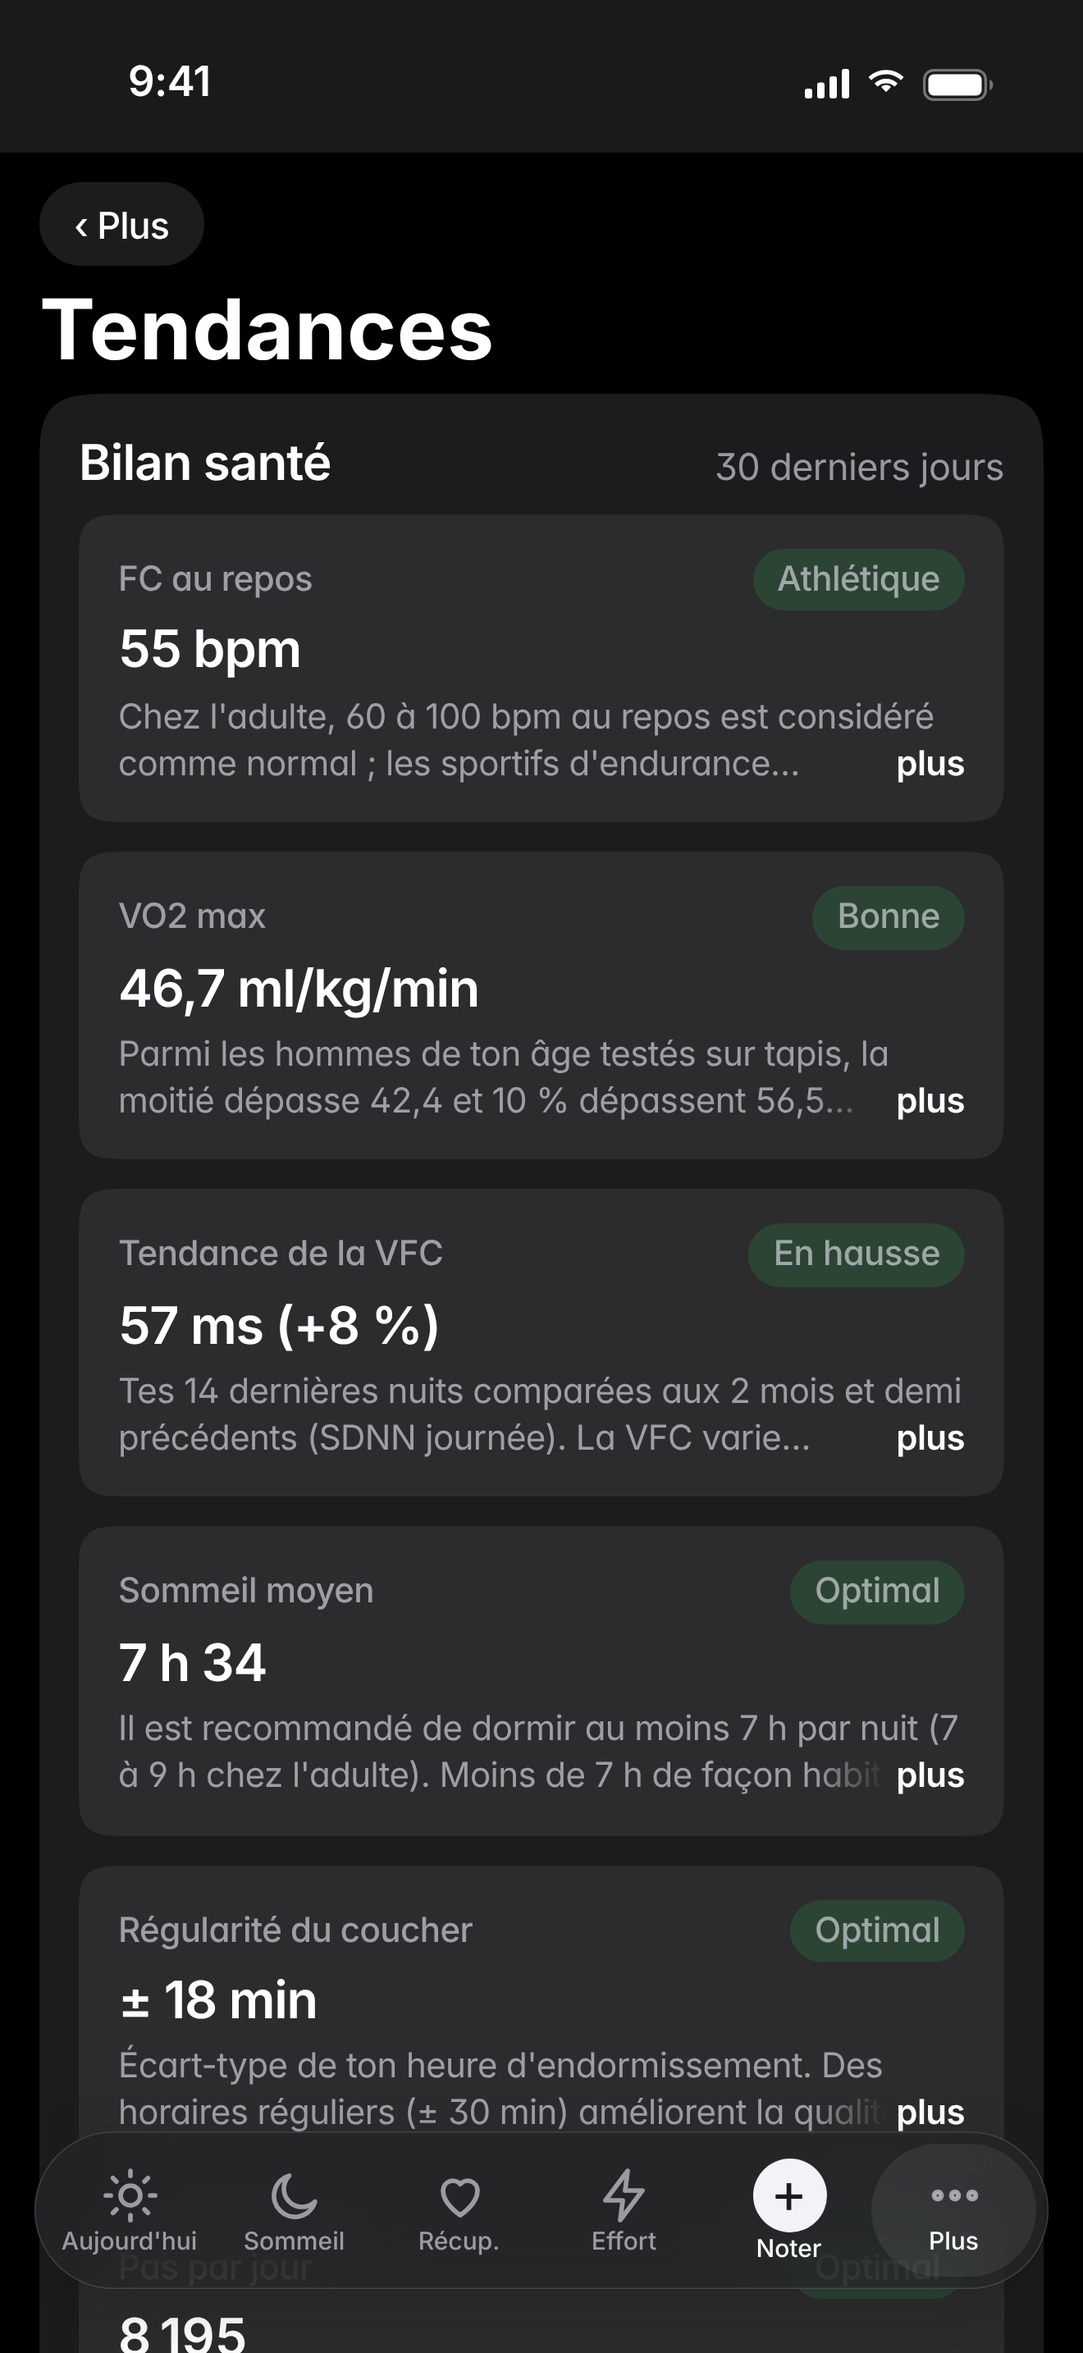
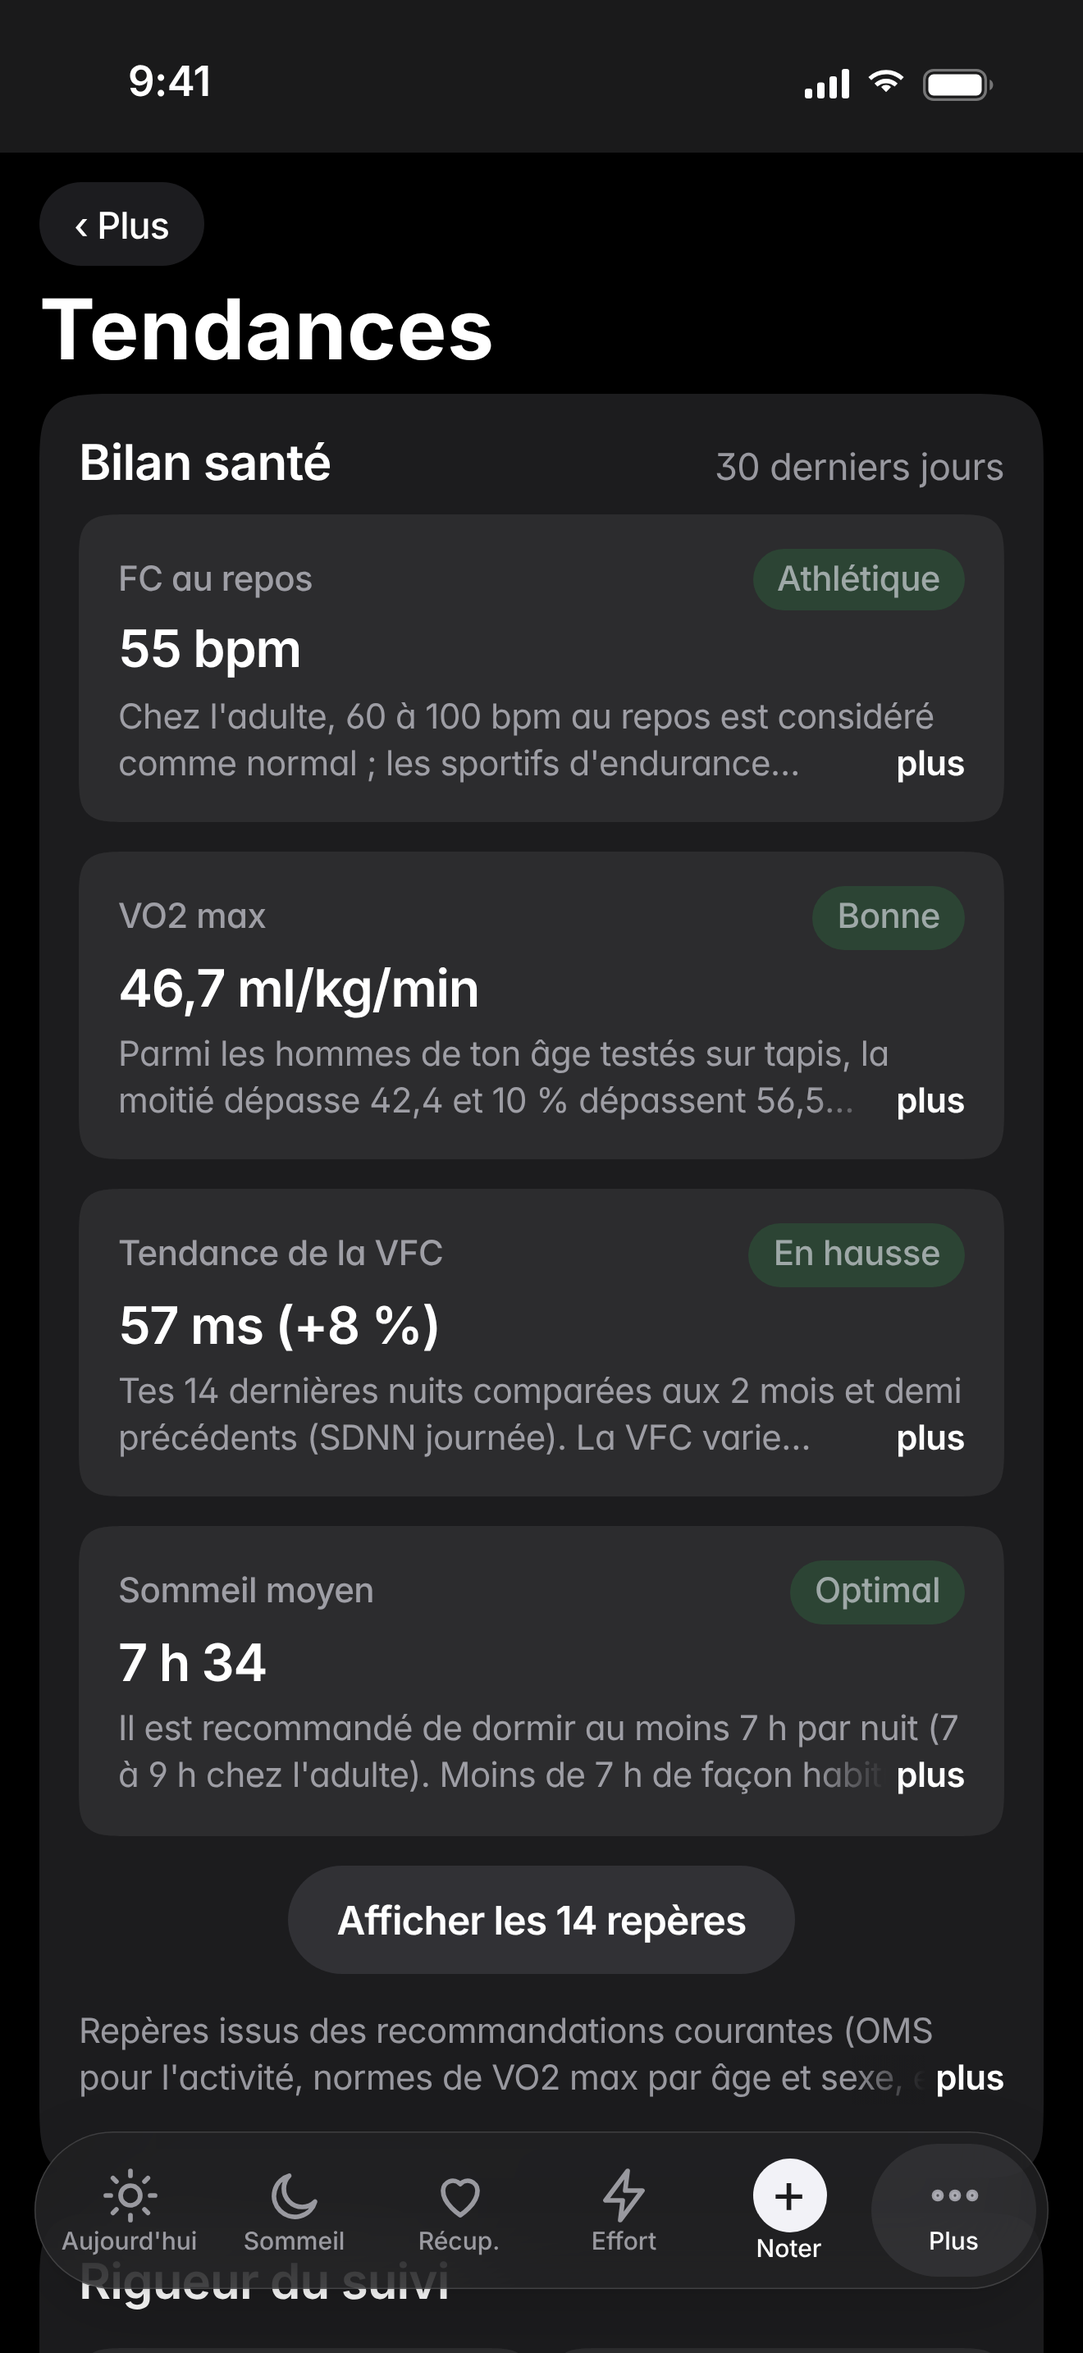
États vides façon Apple et « Afficher tout »
- sans données Apple Santé : un écran d'attente clair (icône, titre, explication,
  « Importer / Connecter Apple Santé » et « Essayer avec la démo ») au lieu de graphiques vides
- Sommeil et Récupération n'affichent plus de panneaux vides ; Effort garde la carte de séance ;
  Aujourd'hui garde nutrition, hydratation, activités et check-in
- graphiques sans données : message centré qui passe à la ligne (fini les textes qui débordent),
  légende masquée
- Bilan santé : 4 repères puis « Afficher les 14 repères » ; Records : 6 exercices puis « Afficher tout »
- captures App Store régénérées

Claude-Session: https://claude.ai/code/session_015H5AcnZF4Qe2vCaE56TQbC

diff --git a/src/main.js b/src/main.js
@@ -139,7 +139,7 @@ const ro=new ResizeObserver(es=>es.forEach(e=>drawFig(e.target)));
 function setFig(sel,cfg){const f=$(sel);f._d=cfg;if(!f._o){ro.observe(f);f._o=1}drawFig(f)}
 function drawFig(f){const c=f._d;if(!c)return;if(c.type==='day')return drawDay(f);if(c.type==='hyp')return drawHyp(f);const s=f.querySelector('svg');
  const all=c.series.flatMap(x=>x.pts);f.classList.toggle('nodata',all.length<2);const W=f.clientWidth,H2=f.clientHeight;if(!W)return;
- if(all.length<2){f._g=null;s.innerHTML=`<text x="${W/2}" y="${H2/2+4}" text-anchor="middle">${esc(c.empty||'Pas encore assez de données')}</text>`;return}
+ if(all.length<2){f._g=null;s.innerHTML='';f.dataset.empty=c.empty||'Pas encore assez de données';return}
  const span=(Math.max(...all.map(p=>Date.parse(p.x)))-Math.min(...all.map(p=>Date.parse(p.x))))/864e5,hw=c.hw||(span>60?7:3);
  const bands=c.series.filter(se=>se.avg&&se.pts.length>=3).map(se=>({se,b:se.pts.map(q=>{const t=Date.parse(q.x),w=se.pts.filter(z=>Math.abs(Date.parse(z.x)-t)<=hw*864e5+1).map(z=>z.y),m=avg(w),sd=w.length>2?sdv(w):0;return{x:q.x,m,lo:m-sd,hi:m+sd}})}));
  const nar=W<520,pl=nar?34:44,pr=nar?46:56,pt=14,pb=24,xs=all.map(p=>Date.parse(p.x));let ys=all.map(p=>p.y);for(const B of bands)for(const q of B.b)ys.push(q.lo,q.hi);if(has(c.hline))ys=ys.concat(+c.hline);if(c.ymin!=null)ys.push(c.ymin);if(c.ymax!=null)ys.push(c.ymax);if(c.band)ys.push(c.band[0],c.band[1]);
@@ -174,7 +174,7 @@ function interact(f){if(f._i)return;f._i=1;const ov=document.createElement('div'
   const t=ov.querySelector('.tip'),tw=t.offsetWidth,th=t.offsetHeight,ax=res.gx??x;let lx=ax+14;if(lx+tw>r.width)lx=ax-14-tw;t.style.left=Math.max(0,lx)+'px';t.style.top=clamp((res.ty??(e.clientY-r.top))-th-10,0,Math.max(0,r.height-th))+'px'};
  f.addEventListener('pointermove',move);f.addEventListener('pointerdown',move);f.addEventListener('pointerleave',hide);f.addEventListener('pointerup',e=>{if(e.pointerType!=='mouse')hide()});f.addEventListener('pointercancel',hide)}
 function drawDay(f){const s=f.querySelector('svg'),c=f._d,W=f.clientWidth,H2=f.clientHeight;if(!W)return;const h=c.h||[];const pts=h.map((v,i)=>v?[i*15+7.5,v]:null).filter(Boolean);f.classList.toggle('nodata',pts.length<4);
- if(pts.length<4){f._g=null;s.innerHTML=`<text x="${W/2}" y="${H2/2+4}" text-anchor="middle">Pas de courbe cardiaque pour ce jour (détail gardé pour les 35 derniers jours importés)</text>`;return}
+ if(pts.length<4){f._g=null;s.innerHTML='';f.dataset.empty=hKeys().length?'Pas de courbe cardiaque pour ce jour. Le détail minute par minute est gardé pour les 35 derniers jours.':'Pas encore de fréquence cardiaque';return}
  const pl=34,pr=10,pt=10,pb=22,ys=pts.map(p=>p[1]),y0=Math.min(...ys)-5,y1=Math.max(...ys)+5,Xf=m=>pl+m/1440*(W-pl-pr),Y=v=>pt+(1-(v-y0)/(y1-y0))*(H2-pt-pb);
  let g='';for(const [a,b] of c.sleep||[])g+=`<rect x="${Xf(a)}" y="${pt}" width="${Math.max(1,Xf(b)-Xf(a))}" height="${H2-pt-pb}" fill="var(--slp)" opacity=".13" rx="6"/>`;
  (c.stress||[]).forEach((v,i)=>{if(v>=30)g+=`<rect x="${Xf(i*60)}" y="${H2-pb-6}" width="${Xf(60)-Xf(0)-1}" height="6" fill="var(--str)" opacity="${clamp(v/100,.3,1)}" rx="2"/>`});
@@ -191,7 +191,7 @@ function drawDay(f){const s=f.querySelector('svg'),c=f._d,W=f.clientWidth,H2=f.c
   return{gx:Xf(i*15+7.5),mk:v?[[Xf(i*15+7.5),Y(v),'var(--hrt)']]:[],ty:v?Y(v):40,html:`<div class="d">${hm(i*15)} – ${hm(i*15+15)}</div>${v?`<div><i class="sw" style="background:var(--hrt)"></i>FC moyenne : <b>${v} bpm</b></div>`:''}${inS?'<div><i class="sw" style="background:var(--slp)"></i>Sommeil</div>':''}${inW?'<div><i class="sw" style="background:var(--eff)"></i>Entraînement</div>':''}${sv?`<div><i class="sw" style="background:var(--str)"></i>Stress entre ${hh}h et ${hh+1}h : <b>${sv} / 100</b></div>`:''}`}}};
  interact(f)}
 function drawHyp(f){const s=f.querySelector('svg'),c=f._d,W=f.clientWidth,H2=f.clientHeight;if(!W)return;const sg2=c.segs||[];f.classList.toggle('nodata',!sg2.length);
- if(!sg2.length){f._g=null;s.innerHTML=`<text x="${W/2}" y="${H2/2+4}" text-anchor="middle">${esc(c.empty||'Pas de détail pour cette nuit')}</text>`;return}
+ if(!sg2.length){f._g=null;s.innerHTML='';f.dataset.empty=c.empty||'Pas de détail pour cette nuit';return}
  const a0=Math.min(...sg2.map(x=>x[0]))-10,a1=Math.max(...sg2.map(x=>x[1]))+10,pl=nar(W)?44:64,pr=nar(W)?36:46,Xf=m=>pl+(m-a0)/(a1-a0)*(W-pl-pr);
  const lanes=[['Éveil','var(--awake)'],['REM','var(--rem)'],['Léger','var(--core)'],['Profond','var(--deep)']],top=8,lh=Math.min(34,(H2*.5-top)/4),code2lane={0:0,1:1,2:2,3:3,4:2};
  let g='';lanes.forEach(([n],i)=>g+=`<text x="${pl-8}" y="${top+i*lh+lh/2+4}" text-anchor="end">${n}</text><line x1="${pl}" x2="${W-pr}" y1="${top+i*lh+lh/2}" y2="${top+i*lh+lh/2}" stroke="var(--line)" stroke-dasharray="2 4"/>`);
@@ -229,7 +229,7 @@ function renderDayNav(){const d=S.day,v0=cur(),rel=d===today()?"Aujourd'hui":d==
  else{$('#dtitle').textContent=d===today()?"Aujourd'hui":dLong(d);$('#dsub').textContent=d===today()?dLong(d):rel}$('[data-act=dnext]').disabled=d>=today();
  const L=hLast(),up=S.med.filter(m=>(m.date>=today()&&m.date<=addD(today(),14))||(m.next&&m.next>=today()&&m.next<=addD(today(),14)));const v=cur();
  $('#dn').hidden=!['aujourdhui','sommeil','recuperation','effort'].includes(v);$('#wk').hidden=$('#dn').hidden;if(!$('#wk').hidden)renderWeek(v);
- $('#dnote').innerHTML=!['aujourdhui','sommeil','recuperation','effort'].includes(v)?'':(!L?`<div class="notice">${IMP('Importe ton export Apple Santé','Connecte Apple Santé')} (onglet <a href="#plus" data-act="psub" data-s="apple">Plus</a>) pour activer les scores, le sommeil détaillé et l'analyse cardiaque.</div>`:d>L?`<div class="notice">Données Apple jusqu'au ${dShort(L)}. ${IMP('Réimporte ton export','Synchronise Apple Santé')} pour mettre à jour, ou <button class="btn small" data-act="dlast">voir le ${dShort(L)}</button></div>`:'')
+ $('#dnote').innerHTML=!['aujourdhui','sommeil','recuperation','effort'].includes(v)?'':(!L?emptyHTML(v):d>L?`<div class="notice">Données Apple jusqu'au ${dShort(L)}. ${IMP('Réimporte ton export','Synchronise Apple Santé')} pour mettre à jour, ou <button class="btn small" data-act="dlast">voir le ${dShort(L)}</button></div>`:'')
   +(v==='aujourdhui'&&d===today()&&up.length?`<button type="button" class="upnext" data-act="psub" data-s="dossier"><i><svg viewBox="0 0 24 24"><rect x="4" y="5" width="16" height="15" rx="3"/><path d="M8 3v4M16 3v4M4 10h16"/></svg></i><span>${up.map(m=>{const x=m.date>=today()?m.date:m.next,n=Math.round((new Date(x+'T12:00')-new Date(today()+'T12:00'))/864e5);return `<b>${esc(m.title)}</b> ${n===0?"aujourd'hui":n===1?'demain':'dans '+n+' jours'}`}).join('<br>')}</span><em>›</em></button>`:'')}
 
 /* ---------- frise de la semaine : un mini-anneau par jour (comme l'app Forme) ---------- */
@@ -239,6 +239,16 @@ function renderWeek(v){const d=S.day,t=today(),wd=(new Date(d+'T12:00').getDay()
  $('#wk').innerHTML=[0,1,2,3,4,5,6].map(i=>{const x=addD(mon,i),fut=x>t;
   const rings=fut?[]:v==='sommeil'?[[val(sleepScore,x),'var(--slp)',13,4.5]]:v==='recuperation'?[[val(recovery,x),'var(--rec)',13,4.5]]:v==='effort'?[[val(effortOf,x),'var(--eff)',13,4.5]]:[[val(effortOf,x),'var(--eff)',14,3.4],[val(recovery,x),'var(--rec)',10,3.4],[val(sleepScore,x),'var(--slp)',6,3.4]];
   return `<button type="button" class="wd${x===d?' on':''}${x===t?' tod':''}" data-act="dpick" data-d="${x}"${fut?' disabled':''} aria-label="${esc(dLong(x))}"><span>${L[i]}</span>${fut?'<i class="ph"></i>':ringSVG(rings)}<b>${+x.slice(8)}</b></button>`}).join('')}
+
+/* ---------- état d'attente quand il n'y a pas encore de données Apple Santé ---------- */
+const EMPTY={
+ aujourdhui:['var(--eff)','<circle cx="12" cy="12" r="8.5"/><circle cx="12" cy="12" r="5"/><circle cx="12" cy="12" r="1.5"/>','Ajoute tes données Santé','Chaque matin, le carnet calcule ton effort, ta récupération et ton sommeil à partir des mesures de ton Apple Watch, puis te dit quoi en faire.'],
+ sommeil:['var(--slp)','<path d="M20 14.5A8.5 8.5 0 1 1 9.5 4a7 7 0 0 0 10.5 10.5z"/>','Pas encore de nuits','Ton score de sommeil, tes phases et ton besoin de sommeil viennent des nuits enregistrées par ta montre.'],
+ recuperation:['var(--rec)','<path d="M12 20s-7-4.4-7-10a4 4 0 0 1 7-2.6A4 4 0 0 1 19 10c0 5.6-7 10-7 10z"/>','Pas encore de récupération','La récupération compare chaque nuit ta VFC et ta FC au repos à ta propre normale. Il faut une semaine de nuits pour l\'établir.'],
+ effort:['var(--eff)','<path d="M13 2 4 14h7l-1 8 9-12h-7z"/>','Pas encore de fréquence cardiaque','L\'effort du jour, les zones cardiaques et la charge d\'entraînement viennent de ta FC. Tu peux déjà noter tes séances à la main.'],
+};
+function emptyHTML(v){const [c,ic,t,p]=EMPTY[v];
+ return `<div class="emptyv" style="--c:${c}"><i><svg viewBox="0 0 24 24">${ic}</svg></i><h3>${t}</h3><p>${p}</p><div class="row">${HKN?'<button type="button" class="btn pri" data-act="hkauth">Connecter Apple Santé</button>':'<button type="button" class="btn pri" data-act="psub" data-s="apple">Importer Apple Santé</button>'}<button type="button" class="btn" data-act="demoTry">Essayer avec la démo</button></div></div>`}
 
 /* ---------- aujourd'hui ---------- */
 function renderToday(){const d=S.day,h=H(d),D=S.days[d]||{},it=D.items||[],T=dayTrain(d),set=S.set;
@@ -443,7 +453,7 @@ function renderForce(){const names=exNames(),sel=$('#pex'),cv=sel.value;
  $('#ptab').innerHTML=rows.length?`<table><thead><tr><th>Date</th><th>Meilleure série</th><th class="num">1RM est.</th></tr></thead><tbody>${rows.slice(-6).reverse().map(r=>`<tr><td>${dShort(r.d)}</td><td>${esc(setTxt(r.x))}</td><td class="num">${r.v?fx(r.v)+' kg':'–'}</td></tr>`).join('')}</tbody></table>`:''}
 function renderRecs(){const m=new Map();for(const s of done())if(s.kind!=='sport')for(const e of s.ex||[]){const k=norm(e.n);if(!k)continue;const o=m.get(k)||{n:e.n,e1:0,e1d:'',hw:0,hwd:'',hws:null,mr:0};for(const x of e.sets){const v=e1(num(x.w),num(x.r));if(v>o.e1){o.e1=v;o.e1d=s.date}if(num(x.w)>o.hw||(num(x.w)===o.hw&&num(x.r)>num(o.hws&&o.hws.r))){o.hw=num(x.w);o.hwd=s.date;o.hws=x}o.mr=Math.max(o.mr,num(x.r))}m.set(k,o)}
  const L=[...m.values()].sort((a,b)=>b.e1-a.e1);
- $('#recs').innerHTML=L.length?`<table><thead><tr><th>Exercice</th><th>Série la plus lourde</th><th class="num">Meilleur 1RM est.</th><th class="num">Date</th></tr></thead><tbody>${L.map(o=>`<tr><td>${esc(o.n)}</td><td>${o.hws?esc(setTxt(o.hws)):'–'}</td><td class="num">${o.e1?fx(o.e1)+' kg':o.mr+' reps'}</td><td class="num">${dShort(o.e1d||o.hwd)}</td></tr>`).join('')}</tbody></table>`:'<p class="mute empty">Tes records apparaîtront après tes premières séances.</p>'}
+ $('#recs').innerHTML=L.length?`<table><thead><tr><th>Exercice</th><th>Série la plus lourde</th><th class="num">Meilleur 1RM est.</th><th class="num">Date</th></tr></thead><tbody>${L.map(o=>`<tr><td>${esc(o.n)}</td><td>${o.hws?esc(setTxt(o.hws)):'–'}</td><td class="num">${o.e1?fx(o.e1)+' kg':o.mr+' reps'}</td><td class="num">${dShort(o.e1d||o.hwd)}</td></tr>`).join('')}</tbody></table>${L.length>6?`<button type="button" class="btn small mall" data-act="showall" data-t="#recs">Afficher les ${L.length} exercices</button>`:''}`:'<p class="mute empty">Tes records apparaîtront après tes premières séances.</p>'}
 function renderHist(){const open=new Set($$('#hist details[open]').map(d=>d.dataset.id)),E=[];
  const dates=new Set(done().map(s=>s.date));for(const d of hKeys().slice(-120))if((H(d).wk||[]).length)dates.add(d);
  for(const d of dates){const t=dayTrain(d);for(const s of t.mu)E.push({d,k:'mu',s,att:t.att.filter(isStr)});for(const s of t.sp)E.push({d,k:'sp',s,att:t.att.filter(w=>(WT[w.ty]||'')===s.type)});t.ap.forEach((w,i)=>E.push({d,k:'ap',w}))}
@@ -486,7 +496,7 @@ function addFood(f,m){if(!f)return;const d=S.day,o={n:f.n,p:num(f.p),k:Math.roun
 function delFood(k){const d=S.day,D=getDay(d),x=D.items.splice(k,1)[0];put.day(d);renderNutri();toast('Aliment retiré',()=>{getDay(d).items.splice(k,0,x);put.day(d);renderNutri()})}
 
 /* ---------- tendances ---------- */
- function renderMarkers(){const m=markers();$('#mkrs').innerHTML=m.length?m.map(x=>`<div class="mkr"><div class="t2"><span>${x.t}</span><span class="st" style="--c:${x.st[1]}">${x.st[0]}</span></div><b>${esc(x.v)}</b><p>${x.p}</p></div>`).join(''):'<p class="mute small">'+IMP('Importe Apple Santé et note ton poids pour obtenir ton bilan.','Connecte Apple Santé et note ton poids pour obtenir ton bilan.')+'</p>';
+ function renderMarkers(){const m=markers();$('#mkrs').innerHTML=m.length?m.map(x=>`<div class="mkr"><div class="t2"><span>${x.t}</span><span class="st" style="--c:${x.st[1]}">${x.st[0]}</span></div><b>${esc(x.v)}</b><p>${x.p}</p></div>`).join('')+(m.length>4?`<button type="button" class="btn mall" data-act="showall" data-t="#mkrs">Afficher les ${m.length} repères</button>`:''):'<p class="mute small">'+IMP('Importe Apple Santé et note ton poids pour obtenir ton bilan.','Connecte Apple Santé et note ton poids pour obtenir ton bilan.')+'</p>';
  const R14=k=>{let n=0;for(let i=0;i<14;i++)if(k(addD(today(),-i)))n++;return n};let streak=0;for(let i=0;i<400;i++){const d=addD(today(),-i);const j=J(d);if(j.mood||j.energy||j.stress||j.sore)streak++;else if(i>0)break}
  const W=weights(),L=hLast(),rs=[['Nuits suivies',R14(d=>H(d).sl),'montre portée la nuit'],['Repas notés',R14(d=>dayIt(d).length),'jours avec nutrition'],['Check-ins',R14(d=>J(d).mood||J(d).energy),'jours remplis'],['Pesées',R14(d=>W[d]),'jours pesés']];
  $('#rig').innerHTML=rs.map(([t,n,s])=>`<div class="stat"><b style="color:${n>=11?'var(--rec)':n>=6?'var(--str)':'var(--bad)'}">${n} <small>/ 14</small></b><span>${t} · ${s}</span></div>`).join('')+`<div class="stat"><b>${streak} <small>j</small></b><span>série de check-ins en cours</span></div>`+(L?`<div class="stat"><b>${dShort(L)}</b><span>dernières données Apple${today()>addD(L,3)?IMP(' : pense à réimporter',' : synchronise Apple Santé'):''}</span></div>`:'')}
@@ -601,7 +611,7 @@ function resumeOnce(){if(resumed)return;resumed=true;const o=S.sessions.filter(s
 const views=['aujourdhui','sommeil','recuperation','effort','nutrition','tendances','plus'];
 const cur=()=>{const h=location.hash.slice(1);return views.includes(h)?h:'aujourdhui'};
 function markMore(){if(!matchMedia('(max-width:800px)').matches)return;requestAnimationFrame(()=>$$('.view:not([hidden]) :is(.panel>p.mute.small,.mkr p):not(.open)').forEach(p=>p.classList.toggle('more',p.scrollHeight>p.clientHeight+2)))}
-function renderView(v){setTimeout(markMore,0);setTimeout(syncNav,0);renderDayNav();$('#demobar').hidden=!S.set.demo;try{({aujourdhui:renderToday,sommeil:renderSleep,recuperation:renderRec,effort:renderEffort,nutrition:renderNutri,tendances:renderTrends,plus:renderPlus})[v]()}catch(e){console.error(e)}}
+function renderView(v){const sec=$('#v-'+v);if(sec){sec.classList.toggle('nohd',!hKeys().length);sec.classList.toggle('nosess',!done().length)}setTimeout(markMore,0);setTimeout(syncNav,0);renderDayNav();$('#demobar').hidden=!S.set.demo;try{({aujourdhui:renderToday,sommeil:renderSleep,recuperation:renderRec,effort:renderEffort,nutrition:renderNutri,tendances:renderTrends,plus:renderPlus})[v]()}catch(e){console.error(e)}}
 function renderSoft(){updateDatalist();
  if(!S.cur&&!$('#editor').contains(document.activeElement))renderStart();
  if(S.cur)S.cur.ex.forEach((e,i)=>updateHint(i));
@@ -623,6 +633,8 @@ document.addEventListener('click',ev=>{unlockAudio();if(matchMedia('(max-width:8
  case'qa':return quick(b.dataset.q);
  case'dpick':buzz();S.day=b.dataset.d;return renderView(cur());
  case'msclose':return closeSheet();
+ case'showall':buzz();$(b.dataset.t).classList.add('all');return;
+ case'demoTry':return loadDemo();
  case'ciopen':renderCheckin();return openSheet('checkin');
  case'metric':return openMetric(b.dataset.k);
  case'mper':buzz();metP=+b.dataset.n;return renderMetric();

diff --git a/src/styles.css b/src/styles.css
@@ -697,3 +697,28 @@ label.btn.filebtn:not(.pri){color:var(--ink)}
 .cinote{margin:8px 0 0;font-size:15px;color:var(--mute);font-style:italic}
 #cibody .ci{gap:18px}
 #cibody textarea{background:transparent;padding:0;min-height:72px}
+
+/* ---------- états vides ---------- */
+.fig.nodata{min-height:0;display:grid;place-items:center;padding:26px 8px}
+.fig.nodata>svg{display:none}
+.fig.nodata::after{content:attr(data-empty);color:var(--mute);font-size:15px;text-align:center;line-height:1.4;max-width:34ch}
+.panel:has(> .fig.nodata) > .lg{display:none}
+.emptyv{display:grid;justify-items:center;text-align:center;gap:8px;background:var(--panel);border-radius:var(--r-card);padding:30px 22px 24px;margin:0 0 16px}
+.emptyv i{width:64px;height:64px;border-radius:50%;background:color-mix(in srgb,var(--c) 15%,transparent);display:grid;place-items:center;margin-bottom:6px}
+.emptyv svg{width:32px;height:32px;stroke:var(--c);fill:color-mix(in srgb,var(--c) 20%,transparent);stroke-width:1.8;stroke-linecap:round;stroke-linejoin:round}
+.emptyv h3{margin:0;font-size:22px;font-weight:700;letter-spacing:-.01em}
+.emptyv p{margin:0 0 6px;color:var(--mute);font-size:16px;max-width:42ch}
+.emptyv .row{justify-content:center}
+/* sans données Apple Santé : on n'affiche que ce qui a du sens */
+#v-sommeil.nohd>*,#v-recuperation.nohd>*{display:none!important}
+#v-aujourdhui.nohd #monmini,#v-aujourdhui.nohd .panel:has(#fday),#v-aujourdhui.nohd .panel:has(#g3),
+#v-aujourdhui.nohd .tile:is([data-k=stz],[data-k=hrv],[data-k=rhr],[data-k=st]){display:none}
+#v-aujourdhui.nohd .tiles{grid-template-columns:repeat(2,minmax(0,1fr))}
+#v-effort.nohd .panel:is(:has(#gef),:has(#fer),:has(#z28),:has(#fl)){display:none}
+#v-effort.nohd.nosess>:not(#sesscard){display:none!important}
+/* « Afficher tout » */
+.mkrs:not(.all)>.mkr:nth-of-type(n+5){display:none}
+.mkrs .mall{grid-column:1/-1;justify-self:center}
+#recs:not(.all) tbody tr:nth-child(n+7){display:none}
+#recs .mall{margin-top:10px}
+.all .mall{display:none}
